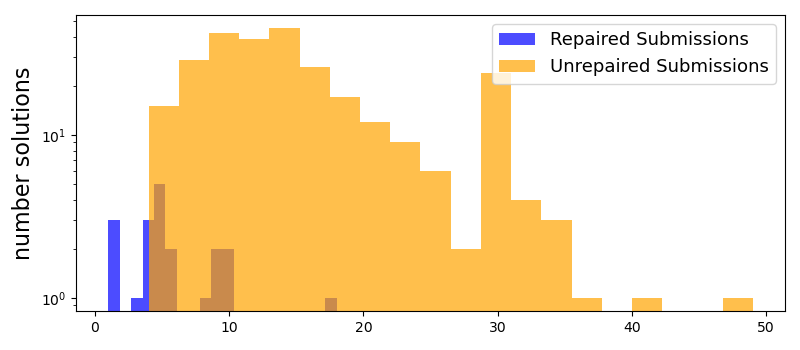
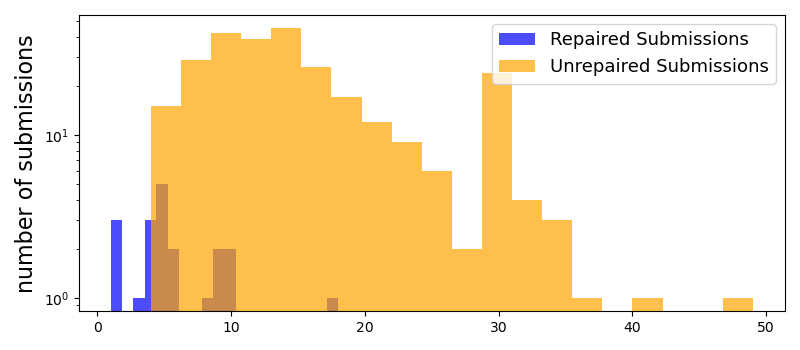
update figures - change solution to submission

diff --git a/src/evaluation/figures.py b/src/evaluation/figures.py
@@ -11,8 +11,8 @@ import numpy as np
 
 class Figures:
     def __init__(self):
-        self.root = Path("/Users/Projects")
-        self.project_home = self.root / "NERO"
+        self.root = Path("/Users/ruizhengu/Projects")
+        self.project_home = self.root / "ICST-2025-Assignment-Projects"
         self.results_json = self.project_home / "resource/results.json"
         self.failed_tests_json = self.project_home / "resource/failed_tests.json"
         self.method_coverage_json = self.project_home / "resource/method_coverage.json"
@@ -128,7 +128,7 @@ class Figures:
         plt.hist(num_methods_unpatched, bins=20, alpha=0.7, label='Unrepaired Submissions', color='orange')
 
         plt.yscale("log")
-        plt.ylabel('number of solutions', fontsize=16)
+        plt.ylabel('number of submissions', fontsize=16)
         plt.legend(fontsize=13)
         plt.tight_layout()
         plt.show()
@@ -165,7 +165,7 @@ class Figures:
         plt.hist(num_tests_unpatched, bins=20, alpha=0.7, label='Unrepaired Submissions', color='orange')
 
         plt.yscale("log")
-        plt.ylabel('number solutions', fontsize=16)
+        plt.ylabel('number of submissions', fontsize=16)
         plt.legend(fontsize=13)
         plt.tight_layout()
         plt.show()
@@ -173,8 +173,8 @@ class Figures:
 
 if __name__ == '__main__':
     f = Figures()
-    f.box_plot_rq2()
+    # f.box_plot_rq2()
     # f.venn_diagram_rq2()
     # f.histogram_rq3_buggy_methods()
-    # f.histogram_rq3_num_failed_tests()
+    f.histogram_rq3_num_failed_tests()
     # f.get_below_threshold_unpatched()

diff --git a/src/evaluation/test_gen_results.py b/src/evaluation/test_gen_results.py
@@ -204,7 +204,7 @@ class TestGen:
         y_max = max(data.max()) * 1.1
         ax.set_ylim(1, y_max)
 
-        plt.ylabel("number of solutions", fontsize=15)
+        plt.ylabel("number of submissions", fontsize=15)
         plt.xticks(fontsize=15)
         plt.yticks(fontsize=13)
         plt.legend(fontsize=13)
